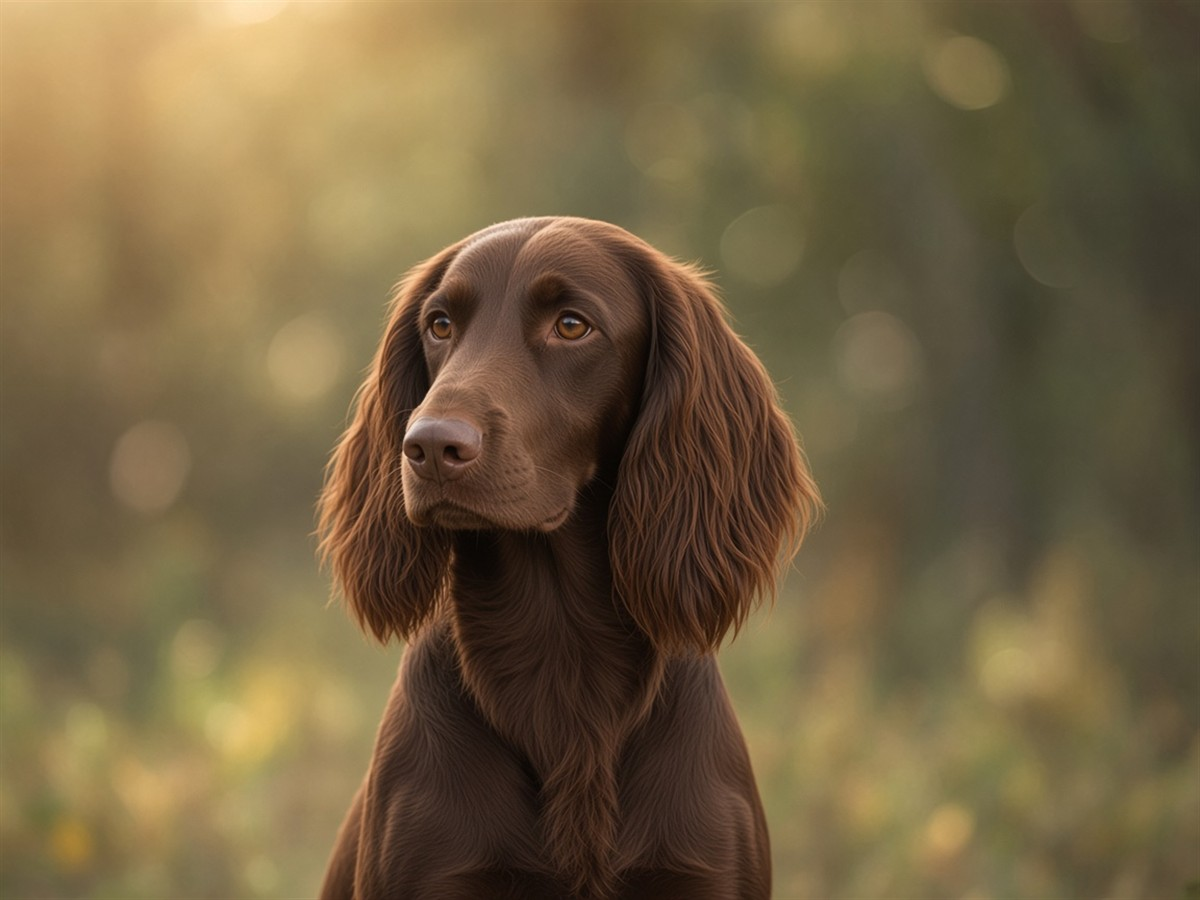
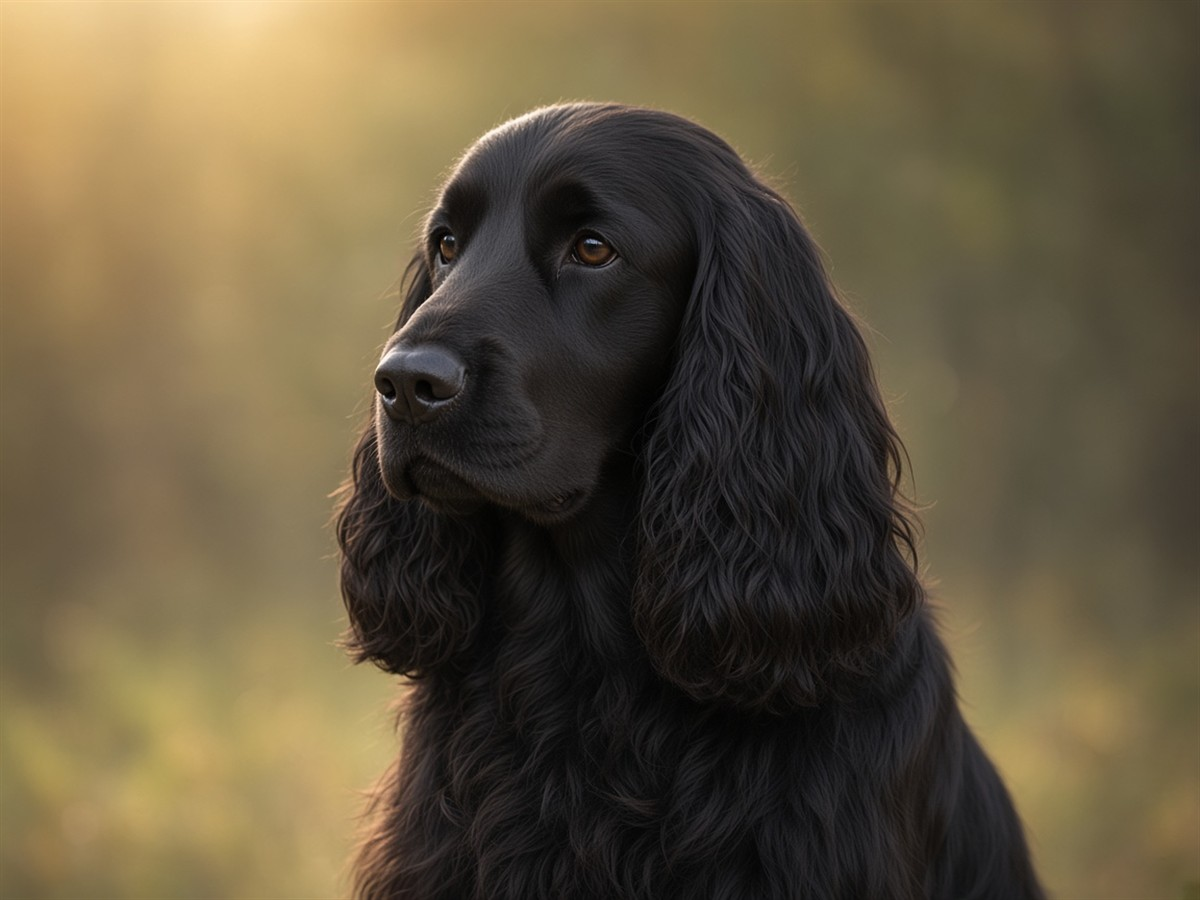
Update Dog Breed Images and Increment Sync Generation Version
- Updated the image version for 'Field španěl' to ensure the latest visual representation is displayed.
- Incremented the breed image sync generation version to 42 for proper cache handling of the updated images.

diff --git a/src/lib/petBreedImages.ts b/src/lib/petBreedImages.ts
@@ -7,7 +7,7 @@ import { petPlaceholderImages } from './petTypes'
  * Bump when replacing files under public/breeds/ so pets + browser pick up new JPGs
  * without a manual hard refresh (appends `&r=N` to local breed URLs).
  */
-export const BREED_IMAGE_SYNC_GENERATION = 41
+export const BREED_IMAGE_SYNC_GENERATION = 42
 
 function withBreedSyncRevision(url: string): string {
   if (!url.startsWith('/breeds/')) return url
@@ -142,7 +142,7 @@ export const DOG_BREED_IMAGES: Record<string, string> = {
   'Estrelský pastevecký pes': '/breeds/estrelsky-pastevecky-pes.jpg?v=1',
   'Eurasier': '/breeds/eurasier.jpg?v=1',
   'Faraónský pes': '/breeds/faraonsky-pes.jpg?v=1',
-  'Field španěl': '/breeds/field-spanel.jpg?v=1',
+  'Field španěl': '/breeds/field-spanel.jpg?v=2',
   'Finský honič': '/breeds/finsky-honic.jpg?v=1',
   'Finský špic': 'https://images.dog.ceo/breeds/spitz-japanese/beet-004.jpg',
   'Flanderský bouvier': 'https://images.dog.ceo/breeds/bouvier/n02106382_4034.jpg',
